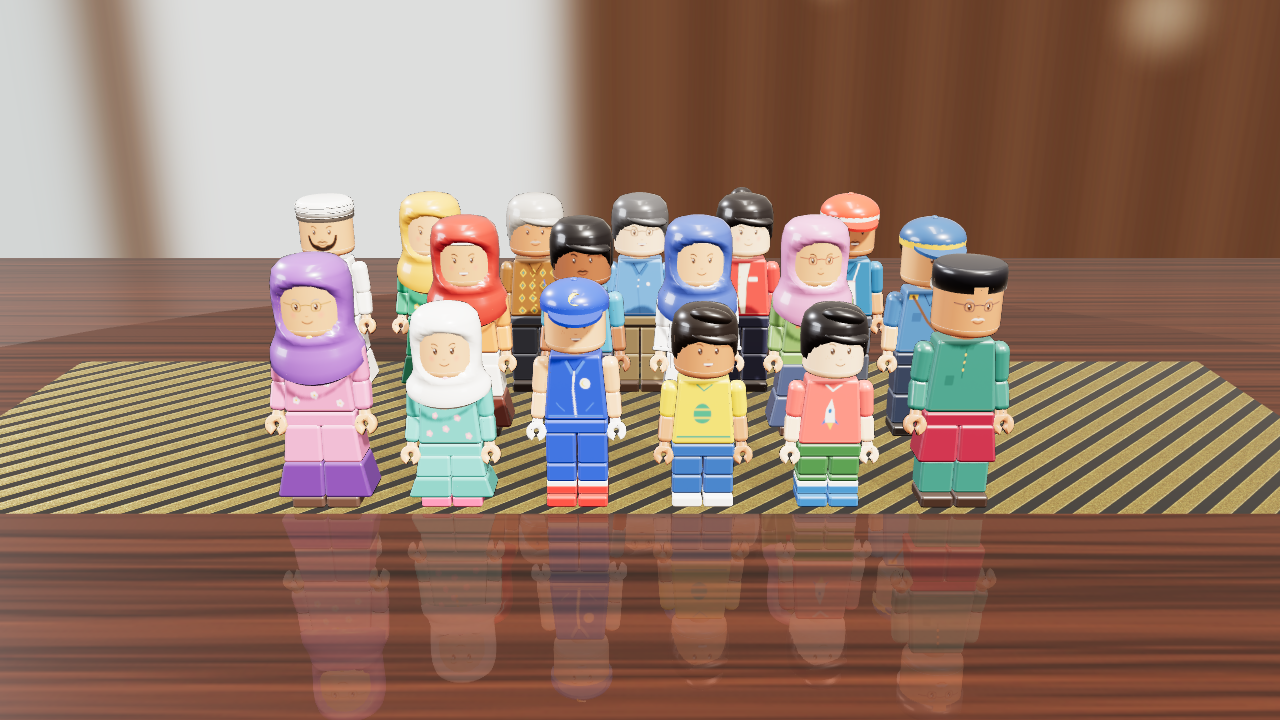
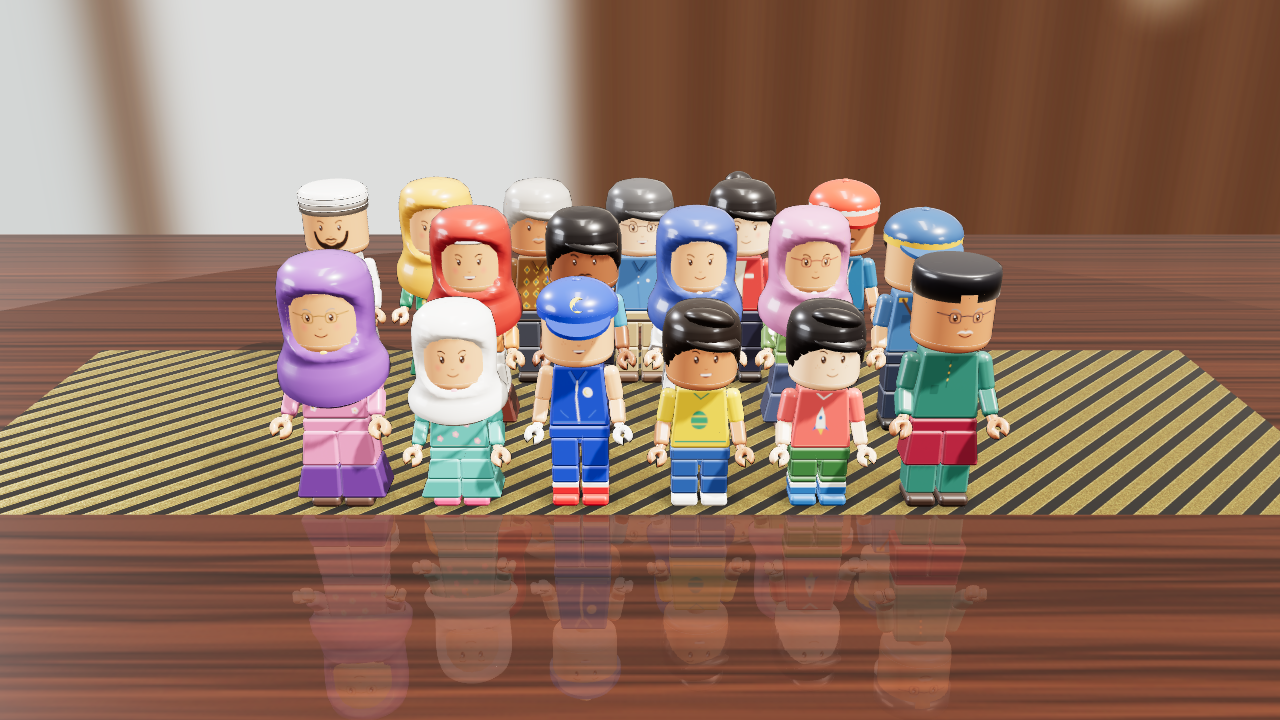
Kampung Quest: WIP snapshot
Claude-Session: https://claude.ai/code/session_01ByYswT9frRdqnmufFNKSMJ

diff --git a/games/kampung-quest/js/world/patterns2.js b/games/kampung-quest/js/world/patterns2.js
@@ -1,0 +1,114 @@
+/* Kampung Quest — detail-layer canvases (KQ.WorldParts.Patterns2): soft contact-shadow blob,
+   road/kerb grime, facade rain streaks, alpha leaf cards, a distant-skyline facade and a
+   steam puff. All procedural, so they work on file:// too. */
+(function (KQ) {
+  "use strict";
+  const P = (KQ.WorldParts = KQ.WorldParts || {});
+  const C = () => P.Canvas;
+
+  /** Rounded-rectangle soft shadow (alpha in the red channel is not needed: drawn black). */
+  function blob() {
+    const c = C().canvas(128, 128);
+    const ctx = c.getContext("2d");
+    const g = ctx.createRadialGradient(64, 64, 8, 64, 64, 64);
+    g.addColorStop(0, "rgba(0,0,0,0.62)");
+    g.addColorStop(0.45, "rgba(0,0,0,0.42)");
+    g.addColorStop(1, "rgba(0,0,0,0)");
+    ctx.fillStyle = g;
+    ctx.fillRect(0, 0, 128, 128);
+    return C().tex(c, true);
+  }
+
+  /** Blotchy dark grime with soft alpha (tyre wear, patches, kerb dirt, damp). */
+  function grime() {
+    const c = C().canvas(256, 256);
+    const ctx = c.getContext("2d");
+    const n = P.Tex.valueNoise(77);
+    const img = ctx.createImageData(256, 256);
+    for (let y = 0; y < 256; y++) {
+      for (let x = 0; x < 256; x++) {
+        const v = n(x / 18, y / 18) * 0.6 + n(x / 5, y / 5) * 0.4;
+        const edge = Math.min(x, y, 255 - x, 255 - y) / 40;
+        const i = (y * 256 + x) * 4;
+        img.data[i] = img.data[i + 1] = img.data[i + 2] = 20 + v * 25;
+        img.data[i + 3] = Math.max(0, Math.min(1, edge)) * (60 + v * 140);
+      }
+    }
+    ctx.putImageData(img, 0, 0);
+    return C().tex(c, true);
+  }
+
+  /** Vertical rain streaks fading downwards (under ledges, AC units, parapets). */
+  function streaks() {
+    const c = C().canvas(128, 256);
+    const ctx = c.getContext("2d");
+    const r = P.rng(5);
+    for (let i = 0; i < 40; i++) {
+      const x = r() * 128;
+      const w = 1 + r() * 4;
+      const len = 60 + r() * 190;
+      const g = ctx.createLinearGradient(0, 0, 0, len);
+      g.addColorStop(0, `rgba(40,38,34,${0.35 + r() * 0.3})`);
+      g.addColorStop(1, "rgba(40,38,34,0)");
+      ctx.fillStyle = g;
+      ctx.fillRect(x, 0, w, len);
+    }
+    return C().tex(c, true);
+  }
+
+  /** Alpha leaf cluster card (several leaflets, rain-tree style). */
+  function leafCard() {
+    const c = C().canvas(256, 256);
+    const ctx = c.getContext("2d");
+    const r = P.rng(31);
+    const greens = ["#2f5a22", "#3f7029", "#56893a", "#6c9c45", "#284b1c", "#82ad52"];
+    for (let i = 0; i < 520; i++) {
+      const a = r() * Math.PI * 2;
+      const d = Math.sqrt(r()) * 112;
+      ctx.save();
+      ctx.translate(128 + Math.cos(a) * d, 128 + Math.sin(a) * d);
+      ctx.rotate(r() * Math.PI);
+      ctx.fillStyle = greens[Math.floor(r() * greens.length)];
+      ctx.beginPath();
+      ctx.ellipse(0, 0, 5 + r() * 6, 2.5 + r() * 2.5, 0, 0, Math.PI * 2);
+      ctx.fill();
+      ctx.restore();
+    }
+    return C().tex(c, true);
+  }
+
+  /** Distant tower facade: window grid (colour) + a night-glow twin. */
+  function skyline() {
+    const out = {};
+    ["col", "glow"].forEach((pass) => {
+      const c = C().canvas(128, 256);
+      const ctx = c.getContext("2d");
+      const r = P.rng(8);
+      ctx.fillStyle = pass === "col" ? "#d8d4cc" : "#000";
+      ctx.fillRect(0, 0, 128, 256);
+      for (let y = 4; y < 256; y += 10) {
+        for (let x = 4; x < 124; x += 12) {
+          const lit = r() < 0.35;
+          ctx.fillStyle = pass === "col" ? "#5c6874" : lit ? "#ffd89a" : "#000";
+          ctx.fillRect(x, y, 8, 6);
+        }
+      }
+      out[pass] = C().tex(c, true, true);
+    });
+    return out;
+  }
+
+  /** Soft white puff for steam sprites. */
+  function puff() {
+    const c = C().canvas(64, 64);
+    const ctx = c.getContext("2d");
+    const g = ctx.createRadialGradient(32, 32, 2, 32, 32, 32);
+    g.addColorStop(0, "rgba(255,255,255,0.55)");
+    g.addColorStop(1, "rgba(255,255,255,0)");
+    ctx.fillStyle = g;
+    ctx.fillRect(0, 0, 64, 64);
+    return C().tex(c, true);
+  }
+
+  P.Patterns2 = { blob, grime, streaks, leafCard, skyline, puff };
+})((window.KQ = window.KQ || {}));

diff --git a/games/kampung-quest/js/world/detail.js b/games/kampung-quest/js/world/detail.js
@@ -1,0 +1,84 @@
+/* Kampung Quest — the detail layer (KQ.WorldParts.Detail): contact shadows (soft AO blobs
+   under every prop/pillar from the collider list), road wear (tyre tracks, patches, kerb dirt,
+   drains, manholes), a distant skyline ring, and street clutter (bicycles, motorbikes, potted
+   plants, bollards, hedges). Each kind is one draw call. */
+(function (KQ) {
+  "use strict";
+  const P = (KQ.WorldParts = KQ.WorldParts || {});
+  const SKIP = new Set(["edge", "lib", "lib-glass", "shop-back", "clinic-glass", "stalls", "screen", "fence", "mosque-wall"]);
+
+  function decalMat(map, opacity) {
+    return new THREE.MeshBasicMaterial({
+      map, transparent: true, opacity, depthWrite: false, polygonOffset: true, polygonOffsetFactor: -4, polygonOffsetUnits: -4,
+    });
+  }
+  const flat = () => P.cached("flatPlane", () => new THREE.PlaneGeometry(1, 1).rotateX(-Math.PI / 2));
+
+  /** Soft contact shadows under everything that stands on the ground. */
+  function contactShadows(group, colliders, heightAt, extra) {
+    const list = [];
+    colliders.forEach((c) => {
+      if (SKIP.has(c.kind)) return;
+      const w = c.maxX - c.minX;
+      const d = c.maxZ - c.minZ;
+      if (w * d > 60) return;
+      const pad = c.kind === "tree" ? 1.6 : c.kind === "car" ? 0.5 : 0.7;
+      const x = (c.minX + c.maxX) / 2;
+      const z = (c.minZ + c.maxZ) / 2;
+      list.push({ x, y: heightAt(x, z) + 0.025, z, sx: w + pad, sy: 1, sz: d + pad });
+    });
+    extra.forEach((e) => list.push({ x: e.x, y: heightAt(e.x, e.z) + 0.025, z: e.z, sx: e.w, sy: 1, sz: e.d }));
+    const im = P.instanced(flat(), decalMat(P.Patterns2.blob(), 1), list, { cast: false, receive: false });
+    im.name = "contactShadows";
+    im.renderOrder = 1;
+    group.add(im);
+  }
+
+  /** Tyre wear, patches, kerb grime, drains and manholes on the carriageways. */
+  function roadWear(B, L) {
+    const r = P.rng(404);
+    const h = L.half + 40;
+    for (let t = -h; t < h; t += 7) {
+      [-1.75, 1.75].forEach((c) => {
+        [-0.45, 0.45].forEach((o) => {
+          B.plane("grime", t + 3.5, 0.016, c + o, 7.4, 0.5, [-Math.PI / 2, 0, 0], null, 0xffffff);
+          B.plane("grime", c + o, 0.017, t + 3.5, 7.4, 0.5, [-Math.PI / 2, 0, Math.PI / 2], null, 0xffffff);
+        });
+      });
+      if (r() < 0.35) B.plane("grime", t + r() * 6, 0.018, (r() - 0.5) * 5, 1.5 + r() * 2.5, 1 + r() * 1.5, [-Math.PI / 2, 0, r()], null, 0x777777);
+      if (r() < 0.35) B.plane("grime", (r() - 0.5) * 5, 0.018, t + r() * 6, 1 + r() * 1.5, 1.5 + r() * 2.5, [-Math.PI / 2, 0, r()], null, 0x777777);
+    }
+    kerbGrime(B, L, h);
+  }
+  function kerbGrime(B, L, h) {
+    const e = L.road.half - 0.25;
+    for (let t = -h; t < h; t += 12) {
+      [-e, e].forEach((c) => {
+        B.plane("grime", t + 6, 0.019, c, 12, 0.5, [-Math.PI / 2, 0, 0], null, 0xffffff);
+        B.plane("grime", c, 0.019, t + 6, 12, 0.5, [-Math.PI / 2, 0, Math.PI / 2], null, 0xffffff);
+        if (Math.abs(t) > 8) {
+          B.box("dark", t + 2, 0.012, c + Math.sign(c) * 0.02, 0.9, 0.012, 0.42, 0x2a2c2e);
+          for (let k = 0; k < 6; k++) B.box("metal", t + 1.62 + k * 0.15, 0.02, c + Math.sign(c) * 0.02, 0.04, 0.01, 0.38, 0x55585b);
+        }
+      });
+      if (Math.abs(t) > 8) B.cyl("metal", t + 9, 0.013, 1.75, 0.35, 0.012, 20, 0x4a4c4e);
+    }
+  }
+
+  /** A ring of distant towers to fill the horizon (fogged to silhouettes). */
+  function skyline(group, mats) {
+    const r = P.rng(2024);
+    const list = [];
+    for (let i = 0; i < 46; i++) {
+      const a = (i / 46) * Math.PI * 2 + r() * 0.08;
+      const d = 150 + r() * 90;
+      const hgt = 26 + r() * 40;
+      list.push({ x: Math.cos(a) * d, y: hgt / 2, z: Math.sin(a) * d, ry: r() * 3, sx: 14 + r() * 18, sy: hgt, sz: 10 + r() * 8, color: r() < 0.5 ? 0xffffff : 0xe8e0d4 });
+    }
+    const im = P.instanced(P.cached("skyBox", () => new THREE.BoxGeometry(1, 1, 1)), mats.skyline, list, { cast: false, receive: false });
+    im.name = "skyline";
+    group.add(im);
+  }
+
+  P.Detail = { contactShadows, roadWear, skyline, decalMat, flat };
+})((window.KQ = window.KQ || {}));

diff --git a/features/kampung-quest/dev/showcase.js b/features/kampung-quest/dev/showcase.js
@@ -9,6 +9,7 @@
   var BACK2 = ["hawker_aminah", "barber_raju", "dr_nurul", "librarian_farah", "postman_dan"];
   var FRONT = ["nenek", "kid_aisyah", "hero", "kid_irfan", "kid_wei", "atuk"];
 
+  var MAT_TOP = 0.004; // the placemat sits 4 mm above the lacquer; feet stand on it
   var state = { solo: "hero", view: "lineup", pose: "idle", phase: 0.25, frozen: false, cycle: false, turn: 0, cycleT: 0 };
   var app = {};
 
@@ -27,7 +28,7 @@
 
   function makeLights(scene) {
     var sun = new THREE.DirectionalLight(0xfff0dc, 2.3);
-    sun.position.set(2.6, 5.5, 4.2);
+    sun.position.set(3.4, 5.8, 2.2);
     sun.castShadow = true;
     sun.shadow.mapSize.set(2048, 2048);
     sun.shadow.bias = -0.0004;
@@ -69,7 +70,29 @@
     var entry = { id: id, fig: fig, twinFig: twin, home: x, homeZ: z, rig: fig.userData.rig, twin: twin.userData.rig };
     entry.anim = F.Animator(fig.userData.rig);
     addStool(entry);
+    addContactShadow(entry);
     list.push(entry);
+  }
+
+  /** Soft contact shadow under the feet so every figure reads as standing on the mat. */
+  function addContactShadow(entry) {
+    if (!app.blobTex) {
+      var c = document.createElement("canvas");
+      c.width = c.height = 64;
+      var x = c.getContext("2d");
+      var g = x.createRadialGradient(32, 32, 2, 32, 32, 31);
+      g.addColorStop(0, "rgba(0,0,0,0.55)");
+      g.addColorStop(1, "rgba(0,0,0,0)");
+      x.fillStyle = g;
+      x.fillRect(0, 0, 64, 64);
+      app.blobTex = new THREE.CanvasTexture(c);
+    }
+    var m = new THREE.MeshBasicMaterial({ map: app.blobTex, transparent: true, depthWrite: false });
+    var blob = new THREE.Mesh(new THREE.PlaneGeometry(0.42, 0.3), m);
+    blob.rotation.x = -Math.PI / 2;
+    blob.position.y = 0.002;
+    blob.renderOrder = 1;
+    entry.fig.add(blob);
   }
 
   /** A little wooden stool for the sit / eat poses: feet on the table, thighs on the seat. */
@@ -115,7 +138,7 @@
   }
 
   var VIEWS = {
-    lineup: { pos: [0, 1.95, 4.4], at: [0, 0.36, -0.4], fov: 36 },
+    lineup: { pos: [0, 2.3, 4.5], at: [0, 0.34, -0.45], fov: 36 },
     hero: { pos: [0.8, 0.9, 2.25], at: [0, 0.5, 0.3], fov: 30 },
     side: { pos: [-2.5, 0.72, 0.45], at: [0, 0.4, 0.3], fov: 30 },
     turntable: { pos: [0, 0.75, 2.3], at: [0, 0.47, 0.3], fov: 30 },
@@ -155,7 +178,7 @@
     var seated = state.pose === "sit" || state.pose === "eat";
     app.figs.forEach(function (f) {
       f.stool.visible = seated;
-      f.fig.position.y = f.twinFig.position.y = seated ? f.seatY : 0;
+      f.fig.position.y = f.twinFig.position.y = MAT_TOP + (seated ? f.seatY : 0);
       if (state.frozen) F.pose(f.rig, state.pose, state.phase, 1);
       else f.anim.update(dt);
       syncTwin(f.rig, f.twin);

diff --git a/games/kampung-quest/js/figures/materials.js b/games/kampung-quest/js/figures/materials.js
@@ -65,9 +65,20 @@
     "    + texture2D(kqMicro, p.xy * 21.0).rgb * w.z;",
     "}",
   ].join("\n");
+  // Mould details: a faint parting line where the two mould halves meet (the part's z = 0 plane, so it
+  // runs round the sides of torsos, legs, arms and over the top of head pieces) and a little edge wear
+  // (lighter, slightly rougher plastic on high-curvature bevels such as shoulders and hat rims).
+  var FRAG_COLOR = [
+    "#include <color_fragment>",
+    "float kqSeam = (1.0 - smoothstep(0.0006, 0.0016, abs(vKqPos.z))) * step(0.5, length(vKqNrm.xy));",
+    "float kqCurv = clamp(length(fwidth(vKqNrm)) / max(length(fwidth(vKqPos)) * 90.0, 1e-5), 0.0, 1.0);",
+    "kqCurv = smoothstep(0.35, 1.0, kqCurv);",
+    "diffuseColor.rgb = mix(diffuseColor.rgb, diffuseColor.rgb * 1.12 + 0.025, kqCurv * 0.45);",
+    "diffuseColor.rgb *= 1.0 - kqSeam * 0.22;",
+  ].join("\n");
   var FRAG_ROUGH =
     "#include <roughnessmap_fragment>\nvec3 kqM = kqTri(vKqPos, vKqNrm);\n" +
-    "roughnessFactor = clamp(roughnessFactor * (0.78 + 0.44 * kqM.b), 0.04, 1.0);";
+    "roughnessFactor = clamp(roughnessFactor * (0.78 + 0.44 * kqM.b) + kqCurv * 0.12 + kqSeam * 0.25, 0.04, 1.0);";
   var FRAG_NORMAL = "#include <normal_fragment_maps>\nnormal = normalize(normal + (kqM - 0.5) * kqMicroAmt);";
   var FRAG_EMIT = "#include <emissivemap_fragment>\ntotalEmissiveRadiance += vSkin * kqSkinGlow * diffuseColor.rgb;";
 
@@ -82,12 +93,13 @@
         .replace("#include <begin_vertex>", VERT_BODY);
       shader.fragmentShader = shader.fragmentShader
         .replace("#include <common>", FRAG_HEAD)
+        .replace("#include <color_fragment>", FRAG_COLOR)
         .replace("#include <roughnessmap_fragment>", FRAG_ROUGH)
         .replace("#include <normal_fragment_maps>", FRAG_NORMAL)
         .replace("#include <emissivemap_fragment>", FRAG_EMIT);
     };
     mat.customProgramCacheKey = function () {
-      return "kq-plastic-v1";
+      return "kq-plastic-v2";
     };
   }
 
